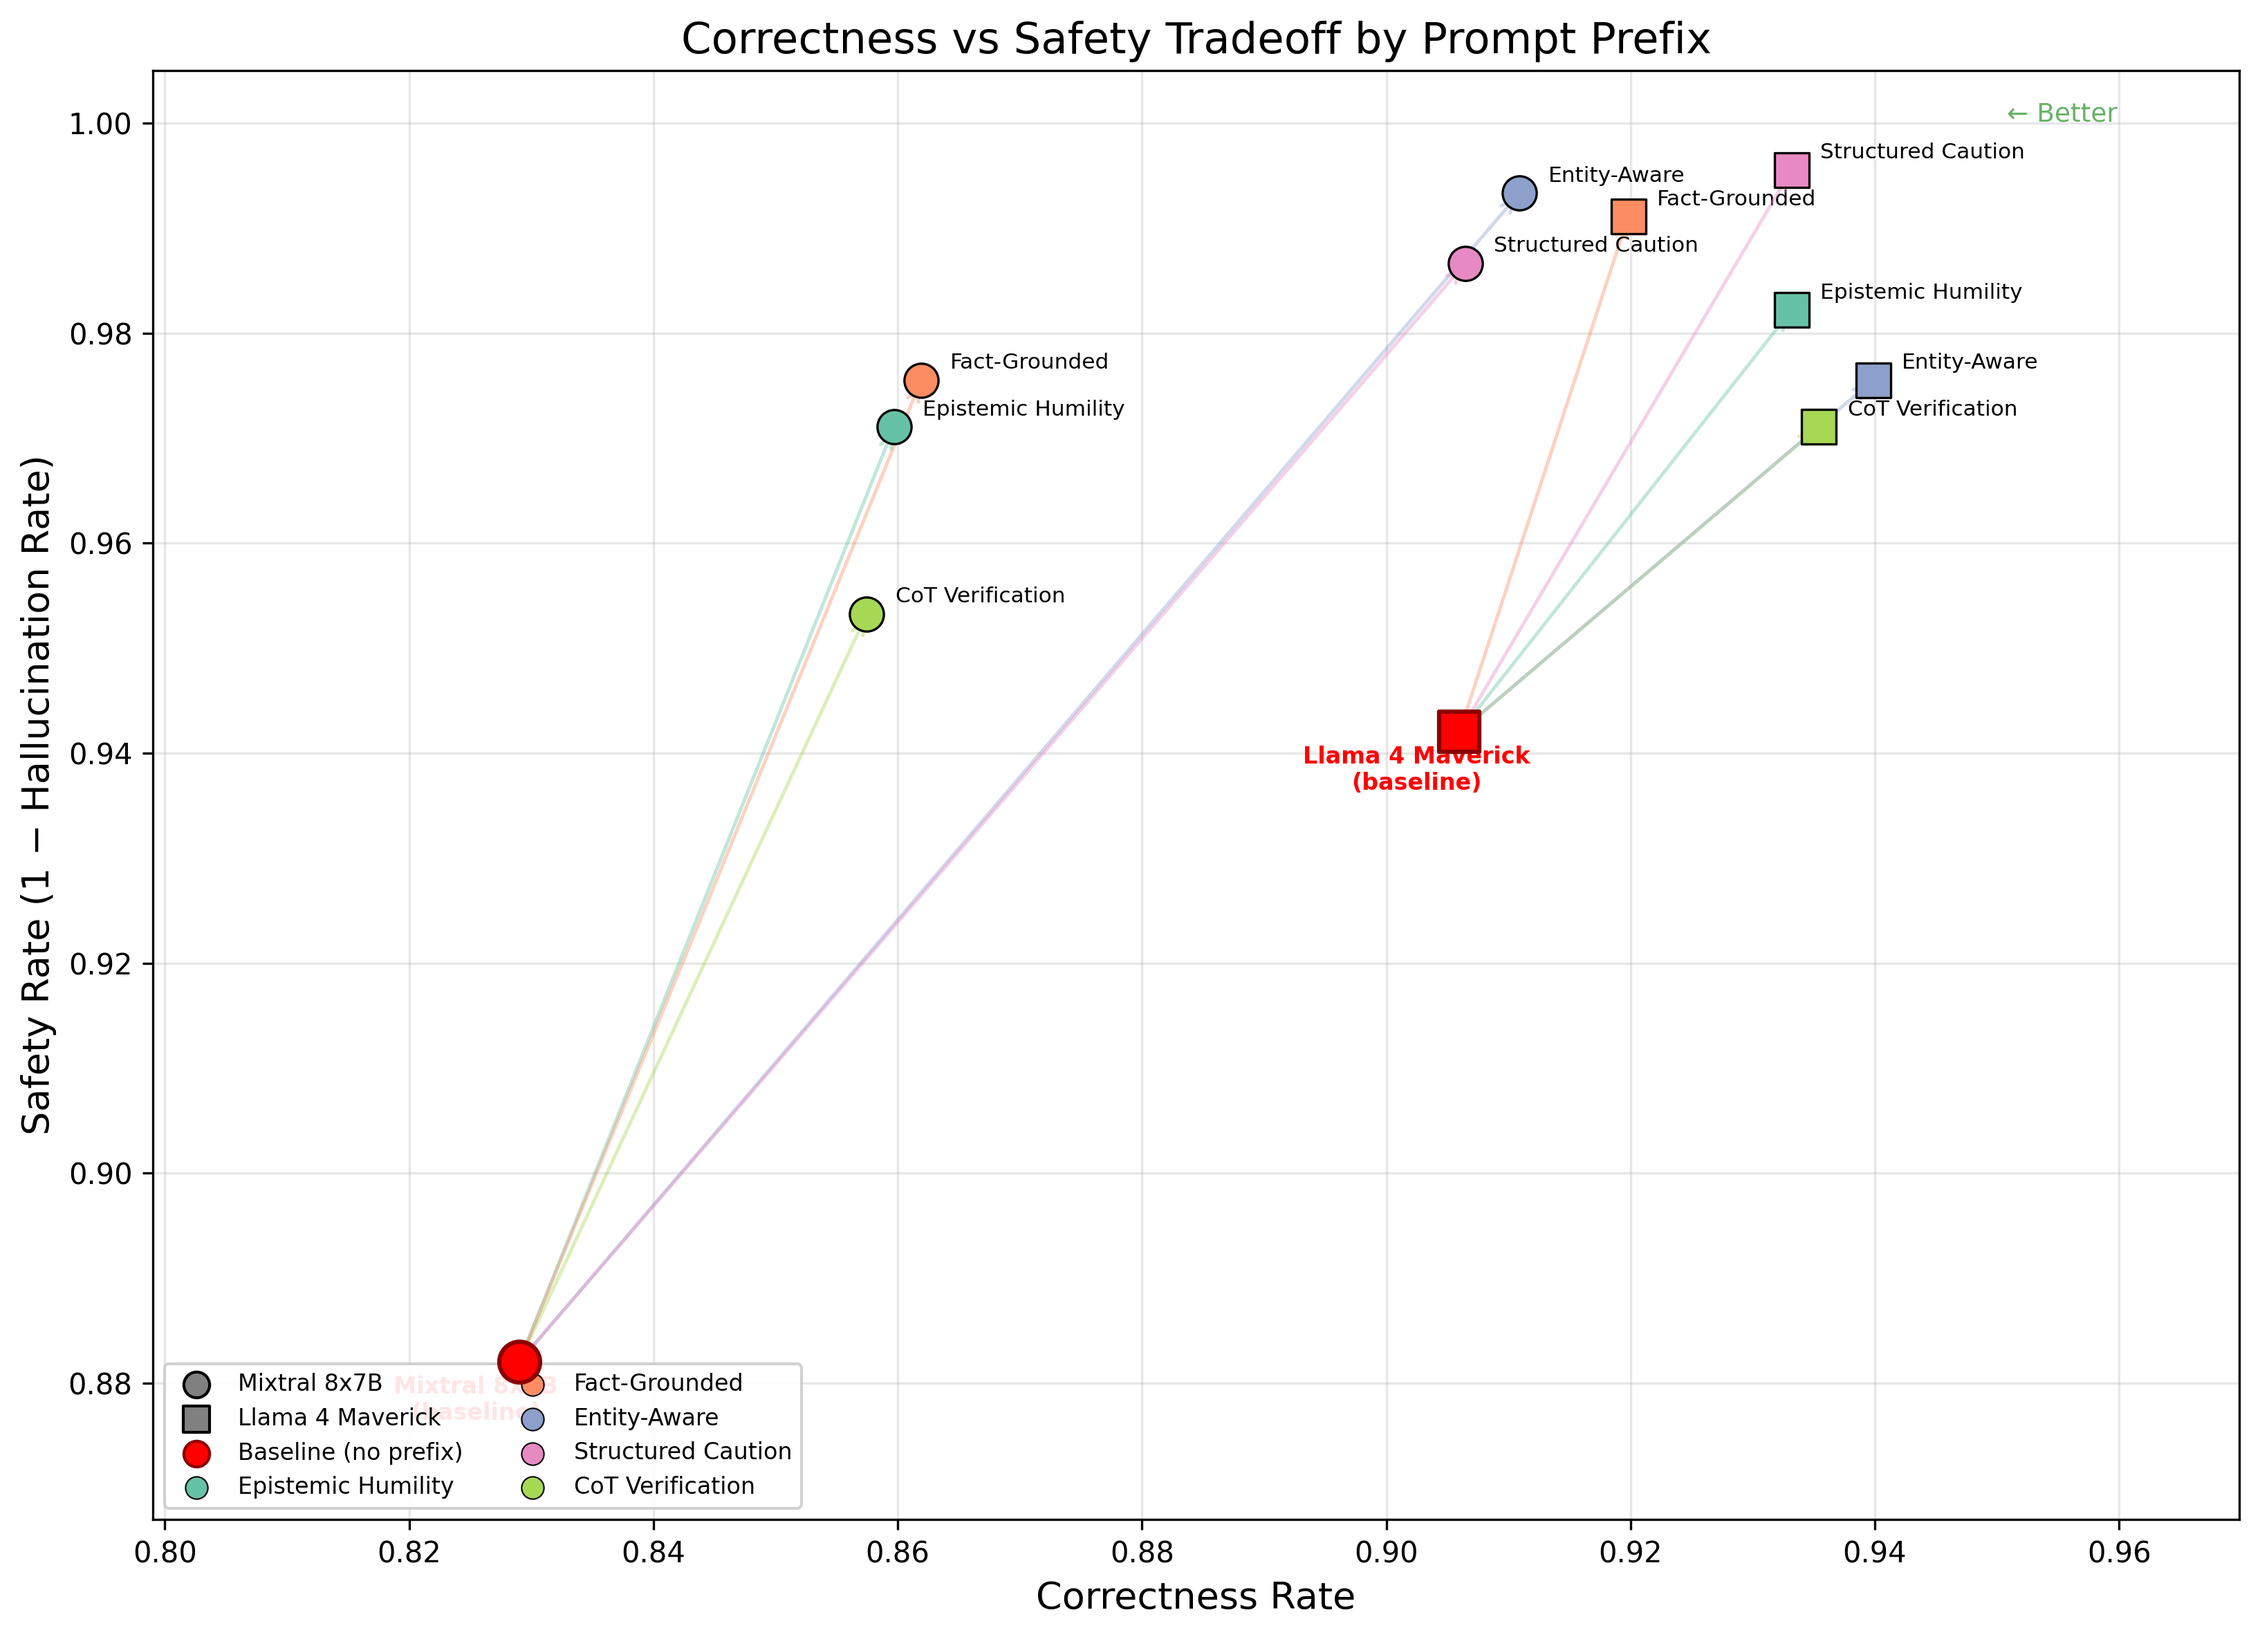
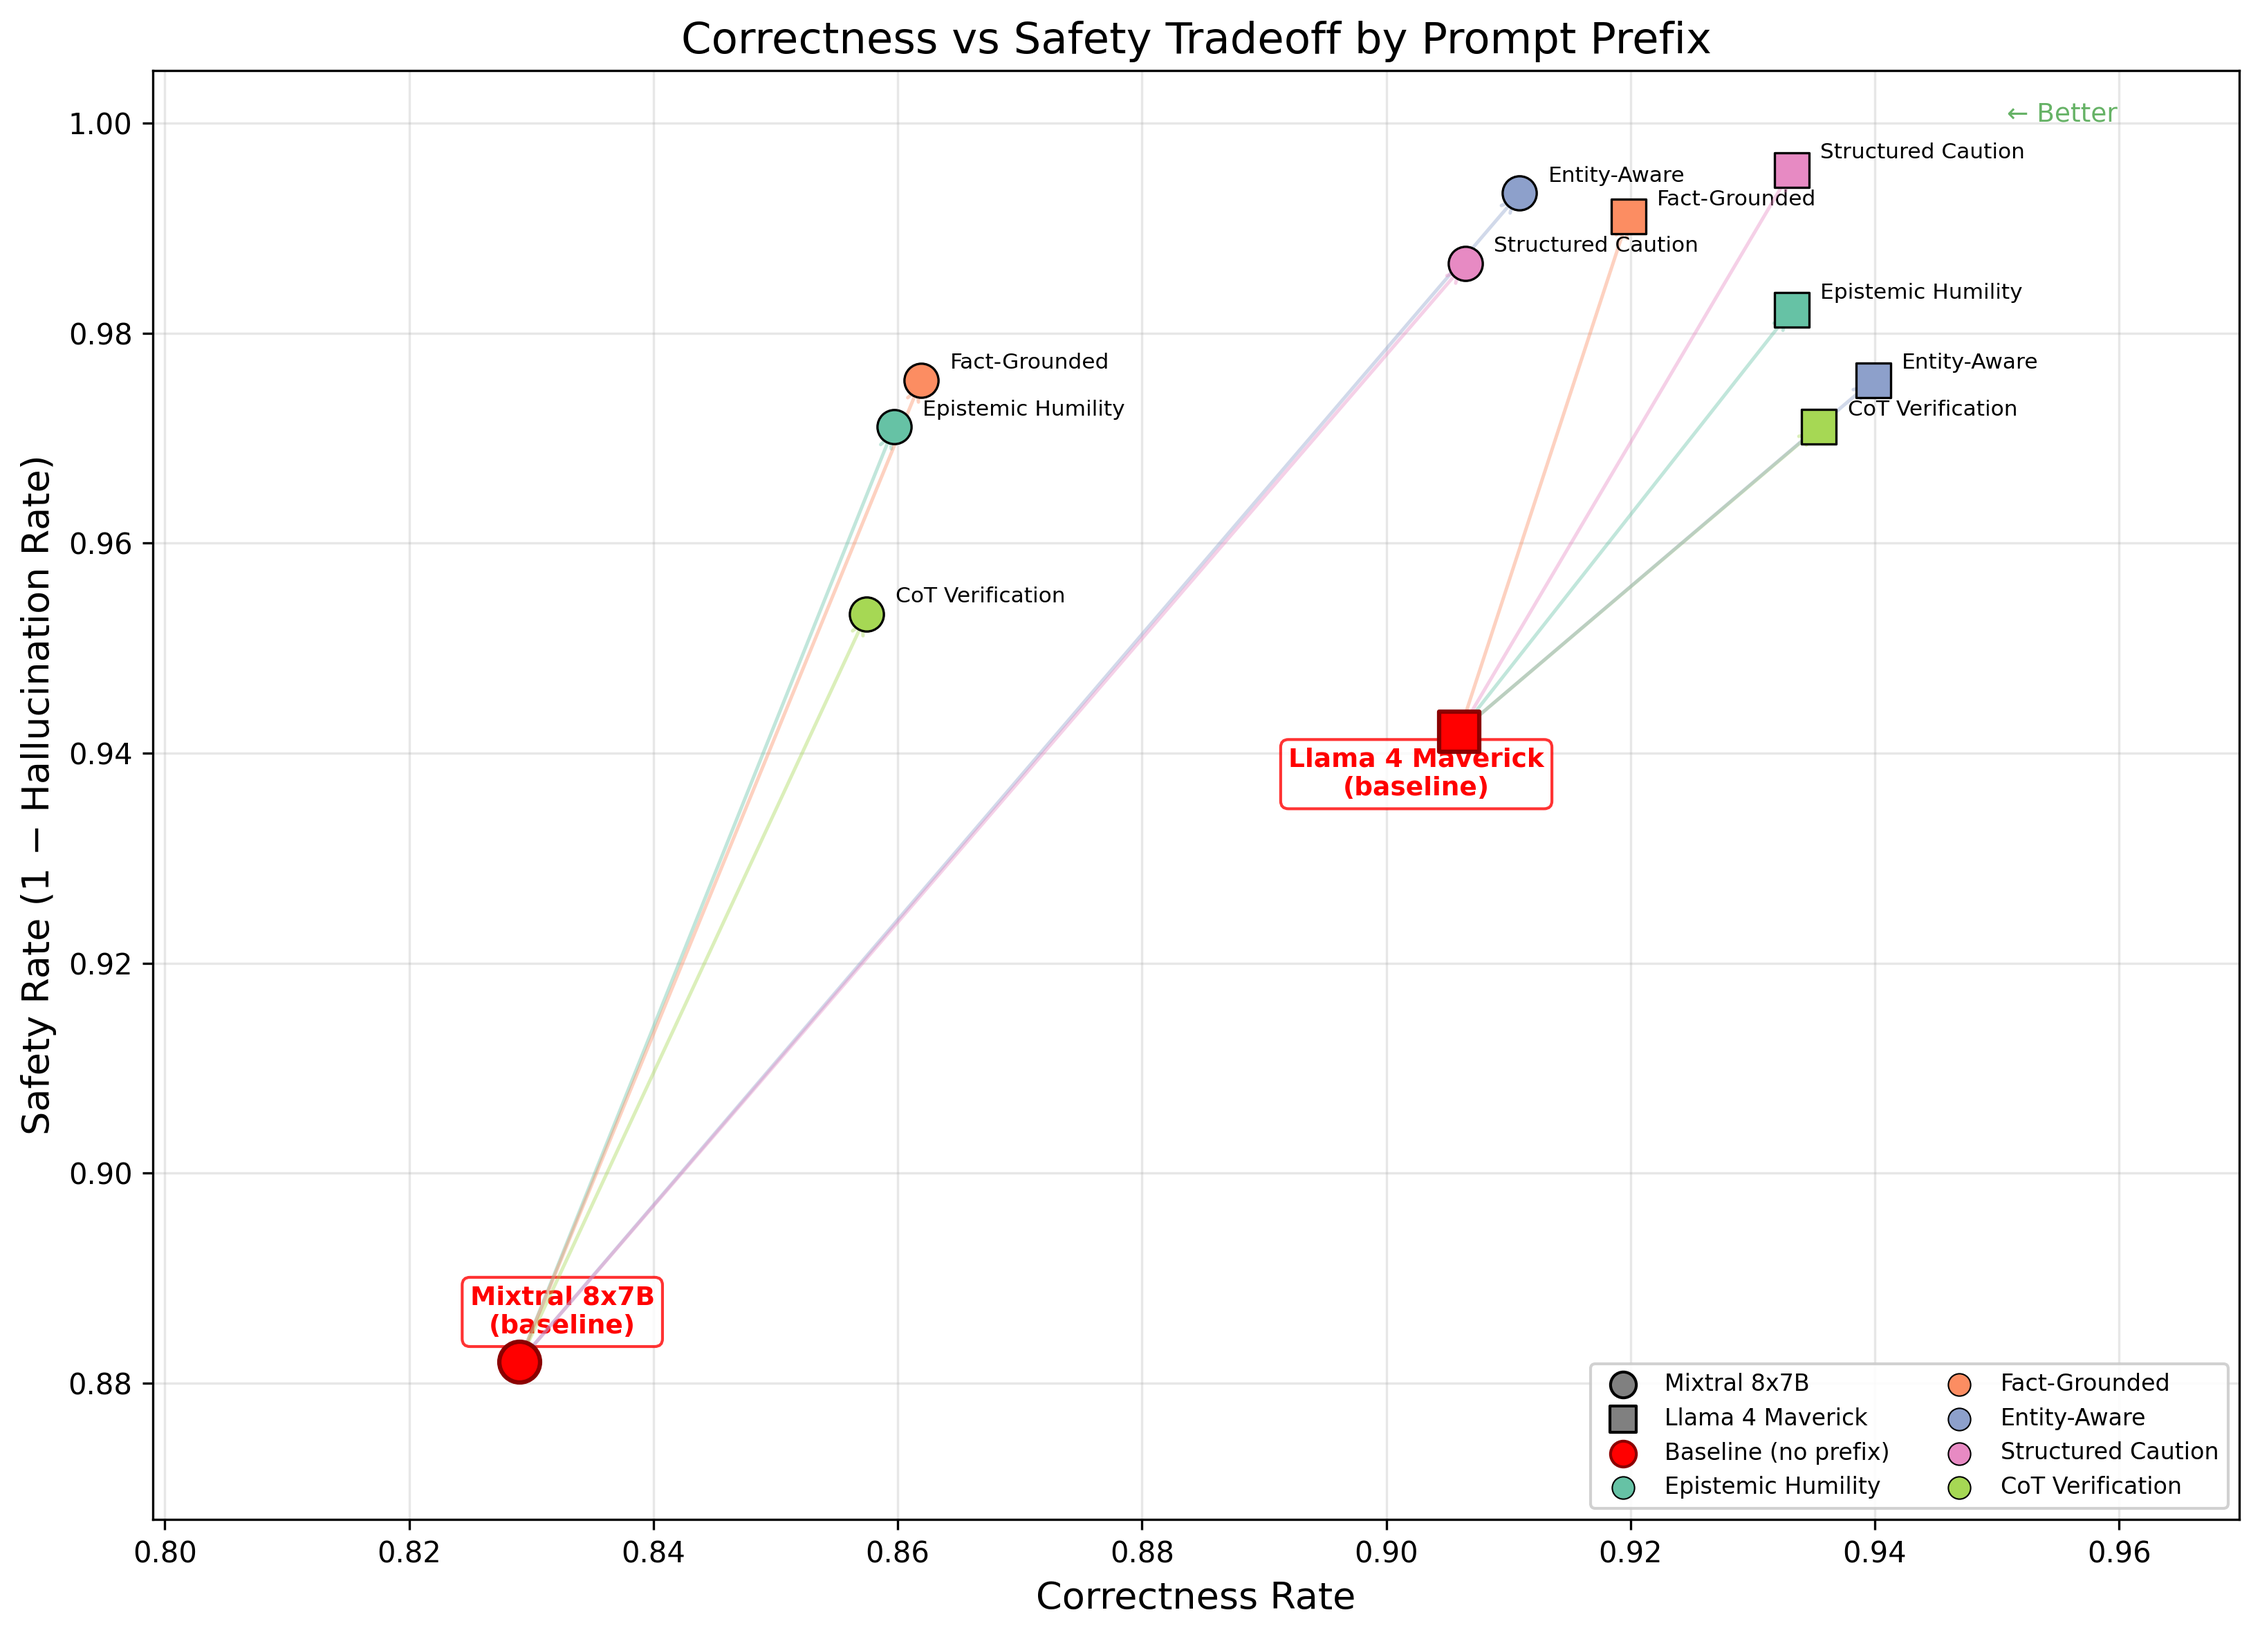
prefix (v4) results graph fix

Changed region(s): [[0.0624, 0.771, 0.3433, 0.9252], [0.6867, 0.8327, 0.9676, 0.9252], [0.5618, 0.4318, 0.6867, 0.4935]]

diff --git a/src/evaluation/prefix_analysis.py b/src/evaluation/prefix_analysis.py
@@ -169,7 +169,11 @@ def plot_tradeoff_curve(metrics_df, output_dir, v3_baselines=None):
         'llama-4-maverick-17b': {'correct_rate': 0.906, 'safety_rate': 1 - 0.058},
     }
 
-    # Plot baseline points
+    # Plot baseline points with model-specific label offsets
+    baseline_offsets = {
+        'mixtral-8x7b': (15, 10),
+        'llama-4-maverick-17b': (-15, -22),
+    }
     for model, bl in baselines.items():
         marker = markers.get(model, 'D')
         ax.scatter(
@@ -178,11 +182,14 @@ def plot_tradeoff_curve(metrics_df, output_dir, v3_baselines=None):
             edgecolors='darkred', linewidth=1.5,
         )
         model_label = MODEL_LABELS.get(model, model)
+        offset = baseline_offsets.get(model, (-15, -20))
         ax.annotate(
             f'{model_label}\n(baseline)',
             (bl['correct_rate'], bl['safety_rate']),
-            textcoords="offset points", xytext=(-15, -20),
-            fontsize=8, ha='center', color='red', fontweight='bold',
+            textcoords="offset points", xytext=offset,
+            fontsize=9, ha='center', color='red', fontweight='bold',
+            bbox=dict(boxstyle='round,pad=0.3', facecolor='white',
+                      edgecolor='red', alpha=0.8),
         )
 
     # Plot prefix points with arrows from baseline
@@ -249,7 +256,7 @@ def plot_tradeoff_curve(metrics_df, output_dir, v3_baselines=None):
     ax.set_xlabel('Correctness Rate', fontsize=13)
     ax.set_ylabel('Safety Rate (1 − Hallucination Rate)', fontsize=13)
     ax.set_title('Correctness vs Safety Tradeoff by Prompt Prefix', fontsize=15)
-    ax.legend(loc='lower left', fontsize=8, ncol=2, framealpha=0.9)
+    ax.legend(loc='lower right', fontsize=8, ncol=2, framealpha=0.9)
     ax.grid(True, alpha=0.3)
 
     plt.tight_layout()
